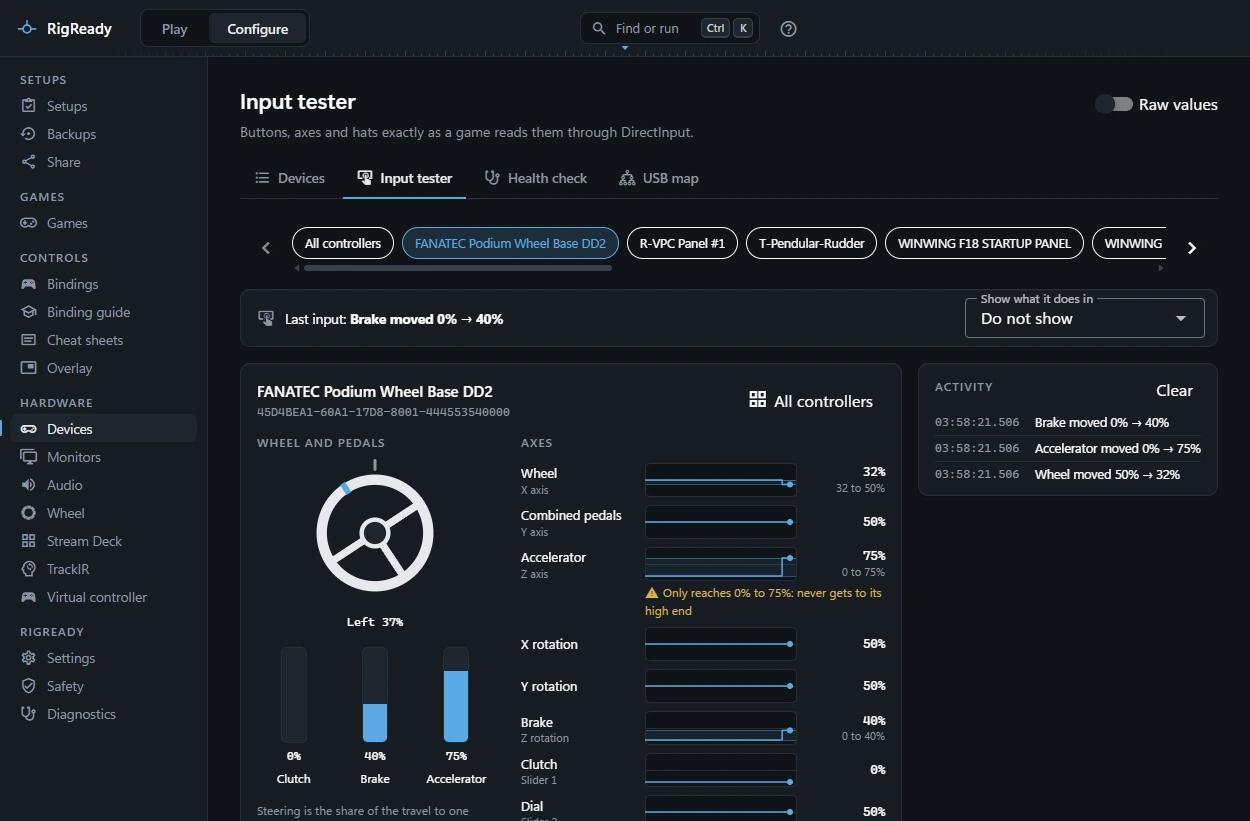
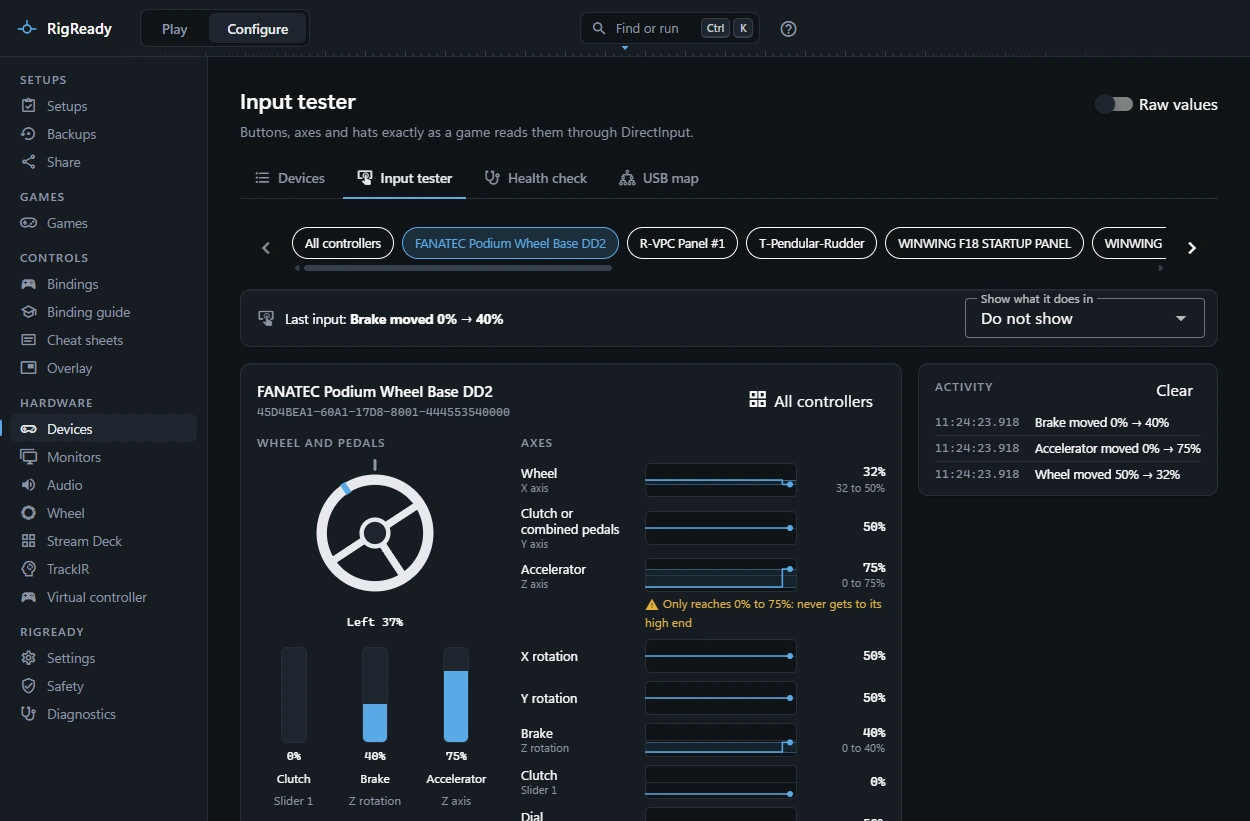
Release 2.0.0: changelog, known limitations and ledger after the second look
CHANGELOG, 2.0.0 section:
- What it contains brought up to date with the merges of 13 Nov: iRacing
  bindings read from the control profile and bound by button or key,
  control profiles (copy between them, a setup switching one), clearing
  controllers that are gone, the calibration check, iRacing binding guides
  by class of car, the overlay switch per setup and "The main screen",
  Stand down's warning about a desk layout not yet kept, "Use in DCS"
  offering to update setups, the trainer's held positions and retries,
  the drawings checked on a real rig. "Twenty binding guides" now says
  they are for DCS (20 guide files in the repo).
- New section "New since 2.0.0-beta.5" for those who tried the betas.
- Known limitations: dropped BIND-DCS-008, SAP-001, BIND-IRACING-003, the
  overlay over a running game and Stand down after a real game closed,
  all seen on the rig on 12 and 13 Nov. Kept dragging the overlay
  (OVERLAY-005). The iRacing line now says RigReady binds buttons and
  keys, and axes, hat switches and number pad keys are bound in iRacing
  (BIND-IRACING-008). Added the DCS kneeboard place (DCS-MON-010) and that
  Windows 10 has not been tried on a real PC. The guides line covers the
  iRacing guides.

Ledger: second-look evidence as dated notes on SAP-001 (todo to
in_progress: seen with SimAppPro closed, no photo yet), BIND-DCS-008,
PLAT-017, WOW-FLY-008, OVERLAY-002, OVERLAY-005, DCS-MON-010, DISP-010,
[…]

diff --git a/site/pages/built.html b/site/pages/built.html
@@ -77,9 +77,12 @@
       </p>
       <p>
         On that PC, tests read the real devices, monitors, audio and controllers, and changed and
-        restored the real monitor layout and audio devices. Changes to game files (bindings, the
-        DCS screen setup, backups and restores, the iRacing repair) were tested on copies of that
-        rig's files, not the live ones.
+        restored the real monitor layout and audio devices. The automated tests changed game files
+        (bindings, the DCS screen setup, backups and restores, the iRacing repair) only on copies of
+        that rig's files. On the rig itself, with its owner there, RigReady also changed the live
+        files: a DCS binding, the DCS screen setup, a line in DCS's Export.lua, and iRacing button
+        and key bindings. Each was then used in its game, and Undo put the DCS and iRacing binding
+        files back byte for byte.
       </p>
       <p>
         It has been used on one rig, so reports from other hardware help most, through the

diff --git a/CHANGELOG.md b/CHANGELOG.md
@@ -1,8 +1,8 @@
 # Changelog
 
-## 2.0.0 (not released)
+## 2.0.0 (2026-11-13)
 
-A rebuild from the ground up. Nothing of 1.1.0's code or update channel carries over. The setup files version 1 left in `~/.rigready` are left as they are: they are listed apart on the Setups page, where one can be brought over as a new setup from the parts that convert exactly, or deleted. RigReady 1 also left "Keep in the tray" switched off in the settings file, behind a switch nobody could use; this version ignores that value, so closing the window keeps RigReady in the tray. A 2.0 beta (up to beta 4) that saved the settings kept the off value as a choice: if closing the window quits RigReady, turn on **Keep RigReady in the tray when you close the window** once in Configure > Settings. Version 2.0.0 has not been published; there is no installer to download yet.
+A rebuild from the ground up. Nothing of 1.1.0's code or update channel carries over. The setup files version 1 left in `~/.rigready` are left as they are: they are listed apart on the Setups page, where one can be brought over as a new setup from the parts that convert exactly, or deleted. RigReady 1 also left "Keep in the tray" switched off in the settings file, behind a switch nobody could use; this version ignores that value, so closing the window keeps RigReady in the tray. A 2.0 beta (up to beta 4) that saved the settings kept the off value as a choice: if closing the window quits RigReady, turn on **Keep RigReady in the tray when you close the window** once in Configure > Settings.
 
 The first signed release. The installer, RigReady.exe and the uninstaller carry a code signature with the publisher name "Mark Cheli", issued through Microsoft's Artifact Signing service, so Windows names the publisher in its dialogs and in the file's properties. Installed copies check that signature before they install an update, and refuse one that is unsigned or signed under another name. SmartScreen may still warn the first time the installer runs, until the installer has earned a reputation with Microsoft.
 
@@ -12,9 +12,9 @@ The first signed release. The installer, RigReady.exe and the uninstaller carry 
 - One screen for the setup used last: a readiness dial, the rig drawn with its monitors and devices so a problem shows as a place, a grouped checklist, and a fix beside every failing item.
 - One action, Make ready and launch (or Enter): the fixes run in order as visible steps and the game is launched once everything required is met. Make ready, Launch and Stand down are also there on their own.
 - Required items make the rig Not ready; optional items only warn. Launch is never blocked, and nothing is launched past a required problem without asking.
-- The session is followed: in progress, then Welcome back with Stand down as the main action. Unless the setup switches it off, Stand down then runs by itself after a countdown you can cancel; the countdown length is set for each setup. A history of sessions says what needed fixing most often.
+- The session is followed: in progress, then Welcome back with Stand down as the main action. Unless the setup switches it off, Stand down then runs by itself after a countdown you can cancel; the countdown length is set for each setup. When the desk monitor layout has not yet been kept with the monitors connected now, the countdown says so and asks you to stay and press Keep it. A history of sessions says what needed fixing most often.
 - Stand down and a restore ask all the processes of a helper program to close together, and name one that stays open with the reason. A restore never forces a program closed; Stand down does so only where the check allows it.
-- An overlay over the game, off until you turn it on: a small see-through list of each button or hat you press and what the game does on it for the aircraft or car you are in. Each line fades after a few seconds. You choose the screen, the place, the size, the number of lines and how long a press stays. It is a window on a monitor, not inside a VR headset.
+- An overlay over the game, off until you turn it on: a small see-through list of each button or hat you press and what the game does on it for the aircraft or car you are in. Each line fades after a few seconds. Each setup has its own switch for it, on to begin with only where RigReady can read that game's bindings, so it can be on in one game and off in another. You choose the screen (or "The main screen", which follows the monitor layout in use), the place, the size, the number of lines and how long a press stays; the page warns when the chosen monitor is off in a setup's layout. It is a window on a monitor, not inside a VR headset.
 - A compact view that stays on top, a quiet offer to switch when the gear plugged in fits another setup, an optional ready tone.
 - One double-click: a desktop shortcut per setup, `RigReady.exe --launch "<setup>"` (also `--make-ready` and `--setup`), a taskbar Jump List, a status badge, progress and three buttons on the taskbar button, an optional global hotkey.
 - Tray icon with the same actions; optional start with Windows.
@@ -36,12 +36,12 @@ The first signed release. The installer, RigReady.exe and the uninstaller carry 
 
 **DCS World**
 - Installs across Steam libraries and standalone; update waiting; aircraft list.
-- MFD screen setup written to RigReady's own MonitorSetup file, starting from SimAppPro's plan when there is one; without SimAppPro, for every installed aircraft that can export a display, read from the aircraft's own files. An aircraft or a display RigReady did not find can be added by name.
+- MFD screen setup written to RigReady's own MonitorSetup file, starting from SimAppPro's plan when there is one; without SimAppPro, for every installed aircraft that can export a display, read from the aircraft's own files. An aircraft or a display RigReady did not find can be added by name. When **Use in DCS** changes DCS's window, it offers to update the setups that still expect the old one, naming each and what changes, in one action you can undo; a setup left as it was says so on the Play screen, and "Set the DCS options" asks before it would undo the screen setup in use.
 - Export.lua managed one tool at a time; overwrites by other programs are noticed.
 - Bindings for every DCS aircraft: effective bindings (defaults plus your changes), editing with a preview, clean-up of unwanted defaults, device ID repair, copy between aircraft, snapshots. Binding the kneeboard button says when its pages cannot be turned from a controller, and offers to bind those next. Binding guides and curated priority lists exist for the aircraft listed in the manual.
-- Cheat sheets of what every control does, print and PDF, DCS kneeboard pages in day and night styles, and a trainer that names an action and has you press the control.
-- Simple outline drawings, each control placed by its button number: the WinWing Orion stick (ViperAce F-16EX and F/A-18 grips), the Orion throttle with the F-15EX handles, the MFD frames, the UFC with its HUD, the ICP, the startup panel and take-off panel 2, and the Thrustmaster HOTAS Warthog stick and throttle, the T.16000M and the TWCS throttle. Each has a label block and leader line per control, placed so that no two lines cross. A press on a control the drawing does not show is listed under "More controls". The Saitek / Logitech X52 Pro has its controls named, without a drawing. A drawing can be corrected or shown over a photo of the device. For any device, a sheet can be made from your own photos (press a control, then click where it is) or imported from a file; the photos stay on this PC. The outlines are schematic and cover only these devices so far; a photo gives a picture that looks like your own.
-- Twenty binding guides, covering the F/A-18C, F-16C, A-10C II and A-10C, A-10A, F-14 (pilot and RIO), F-15E (pilot and WSO), F-15C, MiG-29, Su-27 and J-11A, Su-33, Su-25T, Su-25, Ka-50 III and Ka-50, UH-1H, P-51D, TF-51D, F-86F and Christen Eagle II. For any other aircraft you can import a guide file or write your own, with no AI key, or have optional AI help draft one.
+- Cheat sheets of what every control does, print and PDF, DCS kneeboard pages in day and night styles, and a trainer that names an action and has you press the control. A throttle stop or a switch position counts once it has been there a moment, and you leave it there; a missed card comes back at the end of the round.
+- Simple outline drawings, each control placed by its button number: the WinWing Orion stick (ViperAce F-16EX and F/A-18 grips), the Orion throttle with the F-15EX handles, the MFD frames, the UFC with its HUD, the ICP, the startup panel and take-off panel 2, and the Thrustmaster HOTAS Warthog stick and throttle, the T.16000M and the TWCS throttle. Each has a label block and leader line per control, placed so that no two lines cross. The ViperAce grip, the F-15EX throttle and take-off panel 2 (its brake and wing fold handles included) were checked against presses on a real rig, and a drawing knows where a control rests, such as a throttle at IDLE. A press on a control the drawing does not show is listed under "More controls". The Saitek / Logitech X52 Pro has its controls named, without a drawing. A drawing can be corrected or shown over a photo of the device. For any device, a sheet can be made from your own photos (press a control, then click where it is) or imported from a file; the photos stay on this PC. The outlines are schematic and cover only these devices so far; a photo gives a picture that looks like your own.
+- Twenty binding guides for DCS, covering the F/A-18C, F-16C, A-10C II and A-10C, A-10A, F-14 (pilot and RIO), F-15E (pilot and WSO), F-15C, MiG-29, Su-27 and J-11A, Su-33, Su-25T, Su-25, Ka-50 III and Ka-50, UH-1H, P-51D, TF-51D, F-86F and Christen Eagle II. For any other aircraft you can import a guide file or write your own, with no AI key, or have optional AI help draft one.
 - Optional AI help with your own key from Anthropic (the default), OpenAI, or any OpenAI-compatible service: presets for Google Gemini, OpenRouter, Mistral, and Ollama and LM Studio on your own PC. Each provider keeps its own encrypted key, gets a Test button and a model you can type, and only its one host is contacted (https, or http to this PC only).
 
 
@@ -57,7 +57,10 @@ The first signed release. The installer, RigReady.exe and the uninstaller carry 
 
 **Racing and other games**
 - iRacing, Le Mans Ultimate, BeamNG.drive, Assetto Corsa: detection, bindings as the game's files have them, cheat sheets, backup and restore. Wheel-mode and game-specific checks for iRacing, Le Mans Ultimate and BeamNG.drive; Assetto Corsa gets the common racing checks.
-- iRacing bindings: every action iRacing has, bound or not, and what is bound to it, for all cars and for each car with custom controls, with the controllers matched to what is plugged in and the inputs that do more than one thing. The page shows bindings and does not change them; it says why.
+- iRacing bindings: every action iRacing has, bound or not, and what is bound to it, read from the control profile iRacing uses (iRacing keeps bindings in control profiles since 2026 Season 3), for all cars and for each car with a profile of its own, with the controllers matched to what is plugged in and the inputs that do more than one thing. An action can be bound to a controller button or a key, or cleared: RigReady shows the change first, writes nothing until you press Save, backs the file up and lists the change on the Safety page with Undo. A button and a key bound this way were used by iRacing in a test drive. Axes, hat switches and the number pad keys are bound in iRacing itself.
+- iRacing control profiles: the bindings page lists every profile and which cars use each. Buttons and keys can be copied from one profile into another after a review, with a backup and Undo. A setup can switch the profile iRacing uses at Make ready and put the old one back at Stand down. The iRacing page, its checks, cheat sheets, backups and the controller ID repair use the profile iRacing loads.
+- Controllers iRacing will not find: the bindings of a controller that is gone can be cleared after a review, with Undo. A controller that is only unplugged is never offered. An optional setup check warns when iRacing will ask to calibrate the wheel or pedals plugged in now.
+- Binding guides for iRacing by class of car: GT3, GT4, LMDh and prototypes, formula and open-wheel, oval, and dirt. They show what is bound, walk you through binding buttons and keys with each change shown first, and say that the wheel and pedals are bound in iRacing itself. Their plain names for actions also appear on the iRacing bindings page and the cheat sheets.
 - Assetto Corsa controller repair: when Windows lists the controllers in another order than when `controls.ini` was saved (a USB port change, a controller added), the page shows which controller each binding really acts on now and renumbers the file after a preview, with a backup and Undo. Identical controllers are asked for, never guessed.
 - Microsoft Flight Simulator 2024 and 2020, X-Plane 12 and 11, IL-2 Sturmovik: Great Battles, Falcon BMS, Assetto Corsa EVO, Assetto Corsa Rally, Assetto Corsa Competizione, rFactor 2, Automobilista 2, EA SPORTS WRC, F1 25 and F1 24, DiRT Rally 2.0, RaceRoom, ACE COMBAT 8: detection, launch, files to back up.
 - A virtual controller for games and emulators that read only a gamepad: a virtual Xbox 360 controller or DualShock 4 driven by a stick, wheel, pedals or throttle, with deadzones, curves, a steering range and a throttle split over both triggers, started by hand or by a setup, optionally hiding the real controllers with HidHide, with a live picture of the pad while it runs. Needs the ViGEmBus driver, which you install yourself.
@@ -82,17 +85,35 @@ The first signed release. The installer, RigReady.exe and the uninstaller carry 
 - Motion is short and switched off when Windows is asked to reduce it. A page that is still reading shows its outline.
 - Security: a review of the whole application (`docs/research/security-review-2026-11.md`), a `SECURITY.md` with the reporting path, and a Security page in the manual. A release marked `[security]` is announced on every screen with the install one click away. Every permission a page could ask for is refused; the windows that draw cheat sheets and pictures cannot reach the network; what a second start hands to the running app is validated first. A setup or backup whose YAML would multiply itself into millions of values is refused, and a restore never writes into the Start menu or its Startup folder.
 
+### New since 2.0.0-beta.5
+
+For those who tried the betas: what changed after the second look on the rig.
+
+- iRacing: the bindings come from the control profile iRacing uses (2026 Season 3 and later), not the older `controls.cfg`. The iRacing page, its checks, cheat sheets, backups and the controller ID repair use it too, and say so when a profile cannot be found.
+- iRacing: bind an action to a controller button or a key from the bindings page, with the change shown before anything is written. Button and key bindings made this way were used by iRacing in a test drive.
+- iRacing: the control profiles and which cars use each; copying buttons and keys from one profile into another; a setup that switches the profile at Make ready and puts it back at Stand down.
+- iRacing: clearing the bindings of controllers that are gone, with Undo, and a check that warns when iRacing will ask to calibrate the wheel or pedals.
+- iRacing: binding guides for GT3, GT4, LMDh and prototypes, formula, oval and dirt cars.
+- iRacing: the black box actions carry iRacing's own names, such as "Next black box".
+- The overlay: a switch in each setup, on to begin with only where RigReady can read the game's bindings. "The main screen" follows the layout in use, and the page warns when the overlay's monitor is off in a setup's layout.
+- Stand down's countdown says when the desk layout has not been kept with the monitors connected now. "Replace with the monitors as they are now" counts as keeping it.
+- DCS: "Use in DCS" offers to update the setups that expect DCS's old window, and "Set the DCS options" asks before it would undo the screen setup in use.
+- The trainer: a switch position or the stop of a lever, such as a throttle at IDLE, counts once it is there, with no need to let go, and a missed card comes back at the end of the round.
+- Drawings: the ViperAce grip, the F-15EX throttle and take-off panel 2 match presses on a real rig, and their "?" marks are gone. The wing fold handle is drawn with its positions.
+- Wheels: the input tester shows a Fanatec clutch pedal as the clutch whichever axis the base puts it on, and the Y axis is called "Clutch or combined pedals".
+- Bringing over a RigReady 1 setup no longer lists the same check twice.
+- Updates are checked against the publisher's full certificate details, not only the name, and the release build stops if those details no longer match.
+- Clicking a switch's title in Settings or on the Overlay page turns the switch on or off.
+- The setup editor keeps the capitals in a fix's name.
+- For contributors: Claude Code skills that guide adding a device or a game, and a guide to building and running your own copy.
+
 ### Known limitations
 
 **Not yet verified in the real game or on real hardware.** These passed tests on recorded data from one rig. Each has instructions in `docs/requirements/ledger.yaml` under the id shown.
-- A binding written by RigReady has not been checked in DCS's own controls screen (BIND-DCS-008).
-- MFD displays drawn by DCS from RigReady's monitor setup, with SimAppPro closed, have not been looked at (SAP-001).
 - The iRacing device ID repair has not been tried with a wheel whose Windows ID really changed (RACE-IRACING-005).
 - The Wheel page has only been tried on a real Fanatec base. Moza, Logitech, Simagic, Thrustmaster, Simucube, Asetek and Cammus bases were tested on recorded data made from their published USB IDs; the page says so and links the hardware report form (RACE-WHEEL-001).
 - The Assetto Corsa controller repair has not been tried in the game with a controller that really moved (RACE-AC-001).
-- The iRacing bindings of a car with custom controls were read only from a file made for the tests: no per-car file written by iRacing has been read yet (BIND-IRACING-003).
-- The overlay has not been looked at over a running game, and dragging it into place with the mouse has not been tried on a real rig (OVERLAY-002, OVERLAY-005).
-- Stand down by itself when the game closes was tested only with a game the tests pretend is running, not after a real game closed.
+- Dragging the overlay into place with the mouse has not been tried on a real rig (OVERLAY-005).
 - The virtual controller ran on the real driver once, with ACE COMBAT 8, and nothing recorded it. Hiding the real controllers while a game runs, a DualShock 4 profile and the ACE COMBAT 8 starting point as it is now have not been tried (VPAD-005).
 - A monitor switched back on by a layout that asks for no refresh rate should keep the rate it had; this has not been tried on real monitors (DISP-019).
 - Which way is up on sideways-mounted screens cannot be read from Windows; Monitors > Identify asks once.
@@ -101,15 +122,16 @@ The first signed release. The installer, RigReady.exe and the uninstaller carry 
 
 **By design, for now**
 - Many DCS actions (mostly keyboard and view commands) can be shown but not edited; they are marked "bind in DCS".
-- iRacing bindings are shown, not changed. Changing one is built and switched off until iRacing has loaded a file RigReady wrote (BIND-IRACING-007); axes and hat switches are not built yet (BIND-IRACING-008).
+- For iRacing, RigReady binds buttons and keys. Axes, hat switches and the number pad keys are bound in iRacing itself (BIND-IRACING-008).
+- DCS opens its kneeboard in the bottom right corner of its whole window, which can be on a small screen. The Screens tab shows where; RigReady cannot choose the place yet (DCS-MON-010).
 - The overlay is a window on a monitor. It does not show inside a VR headset (OVERLAY-007), and over a game in exclusive full screen it may not show at all; set the game to borderless.
 - WinWing backlight sync, UFC and ICP displays and vibration still need SimAppPro running. `docs/research/winwing-direct-control.md` describes what replacing it would take.
 - Tuning values of a Fanatec wheel base live on the base and cannot be read; the Wheel page keeps a hand-entered copy.
 - TrackIR's active profile cannot be switched from outside TrackIR.
-- The binding guides were written from general knowledge of the aircraft and have not been reviewed by a pilot. Action names are checked against the installed DCS.
+- The binding guides were written from general knowledge of the aircraft and cars, and have not been reviewed by a pilot or a racing driver. Action names are checked against the installed DCS and against iRacing's own list of actions.
 - The trainer asks buttons and hats only: no axes, modifier combinations or keyboard.
 - A single backup is built in memory and capped at 2 GB.
-- Windows 10 and 11 only.
+- Windows 10 and 11 only. It has not yet been tried on a real Windows 10 PC.
 
 ## 2.0.0-beta.5 (2026-11-13)
 

diff --git a/docs/manual/dcs/bindings.md b/docs/manual/dcs/bindings.md
@@ -70,7 +70,7 @@ Nothing can be saved while DCS runs, because DCS writes the bindings back when y
 
 DCS keeps your changes per aircraft and device in `Saved Games\DCS\Config\Input\<aircraft>\joystick\<Device name> {device ID}.diff.lua`. Each entry is keyed by the action's command hash and lists the controls added, the defaults removed, and the default axes whose curve changed. RigReady writes the file in DCS's own format, with the same ordering, indentation and number format, so a file read and written back is byte for byte the same. When a device has no file yet and DCS ships a template for it, the new file starts from the template, because DCS stops using the template the moment your file exists. When nothing is left in a file, RigReady deletes it, as DCS does, and the device is back on its defaults.
 
-A binding written by RigReady has not yet been verified in the real game: it passed its tests on recorded data from one rig, but has not been checked in DCS's own controls screen. The [changelog](../../../CHANGELOG.md) lists this under known limitations. The first time, bind one action to a free button, save, then start DCS and open its controls screen for the aircraft: the button should be shown in that device's column for that action, with no new conflict marking. If it is not, the file as it was before the change is on the Safety page.
+A binding written by RigReady has been used in DCS: on the rig RigReady was built on, "Kneeboard show / hide" for the F/A-18C was bound here to a stick button, and in the cockpit that button opened the kneeboard. Undo put the file back byte for byte. The first time on your own rig, bind one action to a free button, save, then start DCS and open its controls screen for the aircraft: the button should be shown in that device's column for that action, with no new conflict marking. If it is not, the file as it was before the change is on the Safety page.
 
 ## Actions marked "bind in DCS"
 

diff --git a/docs/manual/troubleshooting/faq.md b/docs/manual/troubleshooting/faq.md
@@ -32,7 +32,7 @@ No. It uses the network only to check for [updates](../app/updates.md), which yo
 
 ## What does "not yet verified on real hardware" mean?
 
-A few features passed their tests on recorded data from one rig but have not been tried in the real game or on the real device yet. The app marks them, and the [changelog](../../../CHANGELOG.md) lists them under known limitations: a [binding written by RigReady](../dcs/bindings.md) checked in DCS's own controls screen, [MFD displays](../dcs/screens.md) drawn by DCS from RigReady's monitor setup with SimAppPro closed, the [iRacing device ID repair](../games/iracing.md) with a wheel whose ID really changed, [restoring a Stream Deck backup](../hardware/stream-deck.md) file by file, the [taskbar](../one-click/taskbar.md) badge and buttons on a real taskbar, the [ready tone](../play/the-menu.md)'s sound, a real press of the [hotkey](../one-click/hotkey.md), and the [overlay](../play/overlay.md) over a running game. They work as far as tests can tell; treat them with a little more care.
+A few features passed their tests on recorded data from one rig but have not been tried in the real game or on the real device yet. The app marks them, and the [changelog](../../../CHANGELOG.md) lists them under known limitations: the [iRacing device ID repair](../games/iracing.md) with a wheel whose ID really changed, [restoring a Stream Deck backup](../hardware/stream-deck.md) file by file, the [taskbar](../one-click/taskbar.md) badge and buttons on a real taskbar, the [ready tone](../play/the-menu.md)'s sound, a real press of the [hotkey](../one-click/hotkey.md), and dragging the [overlay](../play/overlay.md) into place with the mouse. They work as far as tests can tell; treat them with a little more care.
 
 ## Is it free?
 

diff --git a/docs/manual/dcs/index.md b/docs/manual/dcs/index.md
@@ -49,11 +49,11 @@ The aircraft folder names are DCS's input profile keys, for example `FA-18C_horn
 
 Nothing outside RigReady's own folder is written without a copy being kept first and the change being described. Every DCS file RigReady writes is listed under **Configure > Safety** ([The Safety page](../protect/safety-page.md)) with Undo, and before a write you see what will change, as a plain-language list and as the exact text. See [Backups](../protect/backups.md) for the whole-rig backup that includes the DCS files.
 
-## Not yet verified in the real game
+## Seen in DCS
 
-Two things have not yet been verified in the real game: they passed their tests on recorded data from one rig, but have not been looked at inside DCS itself. The [changelog](../../../CHANGELOG.md) lists them under known limitations.
+Two things were checked inside DCS itself on the rig RigReady was built on:
 
-- A binding written by RigReady has not been checked in DCS's own controls screen. See [DCS bindings](bindings.md).
-- The MFD displays drawn by DCS from RigReady's monitor setup, with SimAppPro closed, have not been looked at. See [MFD screens and the monitor setup](screens.md).
+- A binding written by RigReady was used in the cockpit. See [DCS bindings](bindings.md).
+- With SimAppPro closed, DCS drew the MFD displays from RigReady's monitor setup, each on its own screen. See [MFD screens and the monitor setup](screens.md).
 
-Both pages say what to look at the first time.
+Both pages say what to look at the first time on your own rig.

diff --git a/docs/manual/dcs/screens.md b/docs/manual/dcs/screens.md
@@ -122,7 +122,7 @@ A DCS setup can carry three checks about this; capturing a setup offers them. Se
 
 ## What to check in DCS
 
-The displays drawn by DCS from RigReady's monitor setup, with SimAppPro closed, have not yet been verified in the real game: they passed their tests on recorded data from one rig. The [changelog](../../../CHANGELOG.md) lists this under known limitations. The first time, with the MFD screens connected:
+On the rig RigReady was built on, with SimAppPro closed, DCS drew the F/A-18C's left DDI, right DDI and AMPCD from RigReady's monitor setup, each on its own MFD screen. The first time on your own rig, with the MFD screens connected:
 
 1. Close SimAppPro (its tray icon, then Exit) and keep it closed, because its MFD wizard rewrites options.lua.
 2. Under **Configure > Monitors**, apply the flying layout and keep it. Use **Identify** ([Identify and which way is up](../monitors-and-audio/identify.md)) to tell identical USB screens apart and to say which way is up on a sideways screen.

diff --git a/docs/manual/play/overlay.md b/docs/manual/play/overlay.md
@@ -16,7 +16,7 @@ Clicks go through the overlay to the game, and it never takes the keyboard. Whil
 - Over a game in exclusive full screen it may not show. If you do not see it there, set the game to borderless.
 - It does not show inside a VR headset. The overlay is a window on a monitor, and a headset is not one.
 
-Not yet verified on a real rig: the overlay passed its tests in the app on recorded data, but nobody has looked at it over a running game yet, or dragged it into place with the mouse on real monitors. The [changelog](../../../CHANGELOG.md) lists it under known limitations.
+On the rig RigReady was built on, the overlay was used over DCS World running in a window: the presses showed with the right actions, and clicks and typing went to the game. Dragging it into place with the mouse has not been tried on real monitors yet; the [changelog](../../../CHANGELOG.md) lists that under known limitations.
 
 ## Turning it on
 

diff --git a/docs/manual/dcs/simapppro.md b/docs/manual/dcs/simapppro.md
@@ -44,6 +44,6 @@ Once RigReady has written a screen setup or an Export.lua line, it watches those
 
 ![Export.lua rewritten by SimAppPro](../../../artifacts/screens/dcs-setup-simapppro-rewrote/01-simapppro-page-changed.png)
 
-## Not yet verified
+## Seen in DCS
 
-The MFD displays drawn by DCS from RigReady's monitor setup, with SimAppPro closed, have not yet been verified in the real game: they passed their tests on recorded data from one rig, and the [changelog](../../../CHANGELOG.md) lists this under known limitations. [MFD screens and the monitor setup](screens.md#what-to-check-in-dcs) says what to check the first time.
+On the rig RigReady was built on, with SimAppPro closed, DCS drew the MFD displays from RigReady's monitor setup, each on its own screen. [MFD screens and the monitor setup](screens.md#what-to-check-in-dcs) says what to check the first time on your own rig.
